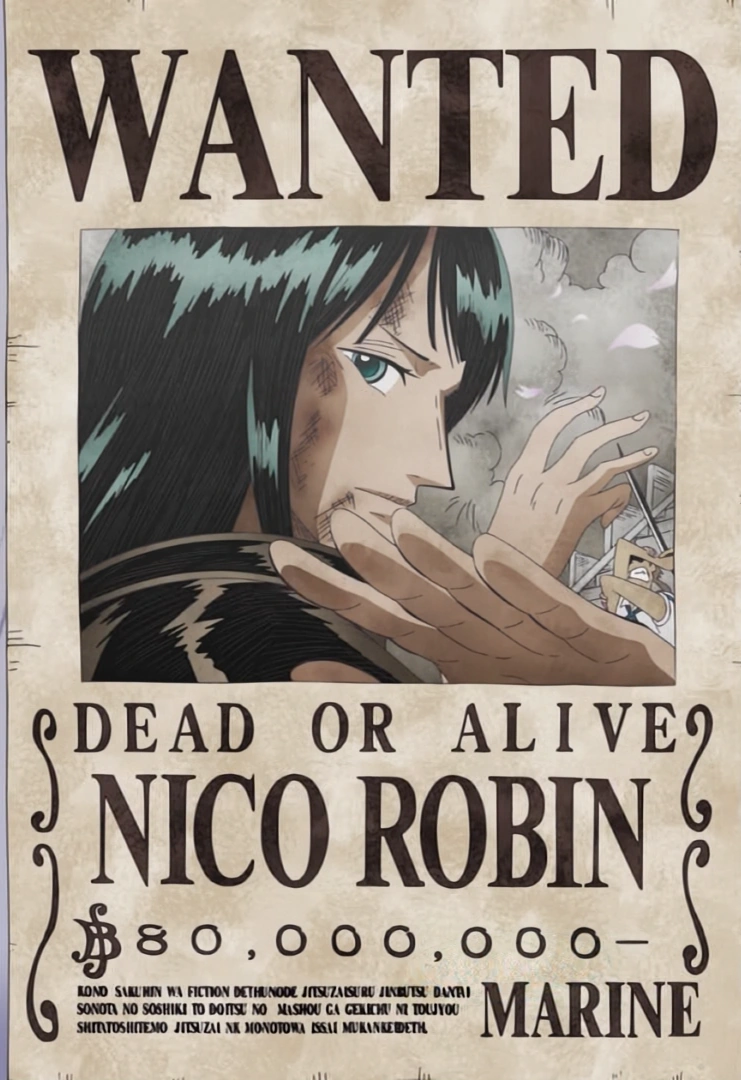
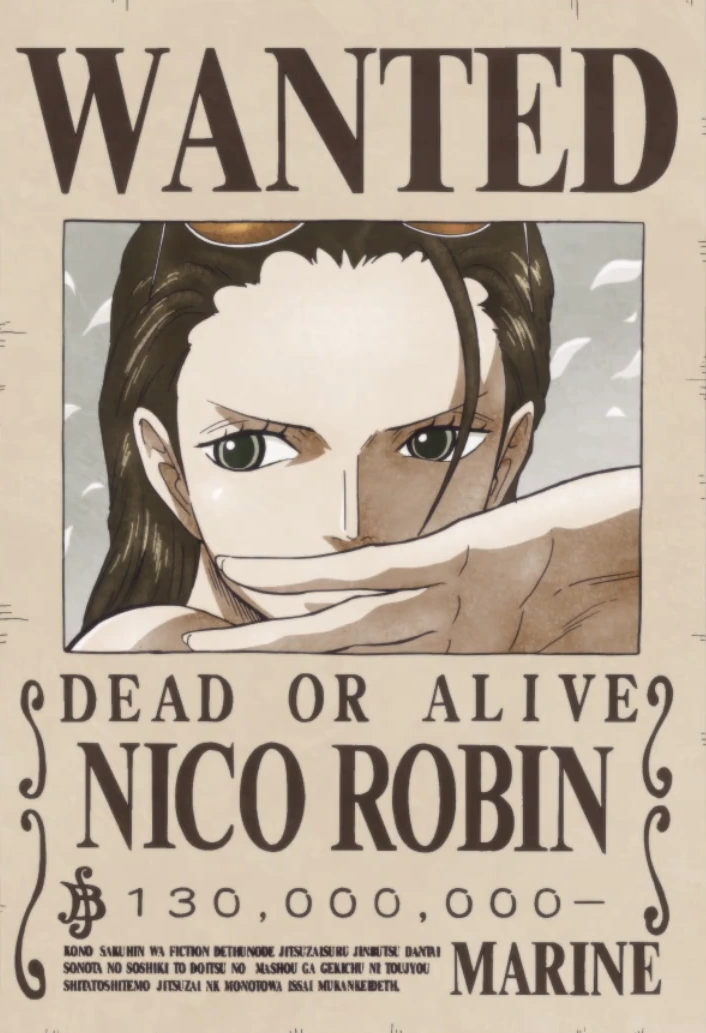
feat(posters): canonical Egghead-era wanted posters from One Piece Fandom
Replaced the 10 wanted posters with the canon Fandom CDN versions —
each with transparent background + their own painted parchment and
bounty figure. Notably Luffy's now the Gear-5 "Sun God Nika" poster
with the 3 billion berry bounty.

- Old capitalised .png set deleted (was lower-quality, white-backed
  partial crops the user uploaded as placeholders)
- All 10 lowercase .webp files replaced with the canon images
  downloaded via direct static.wikia.nocookie.net URLs the user
  provided
- ThemeArtStrip now points at the .webp set, with alt text noting
  each crew member's title ("God Usopp", Luffy's bounty)

diff --git a/src/features/about/ThemeArtStrip.tsx b/src/features/about/ThemeArtStrip.tsx
@@ -26,20 +26,21 @@ const THOR_LINEUP = [
   { src: "/assets/Marvel/magneto.png", alt: "Magneto" },
 ];
 
-// Capitalized .png filenames — the high-res replacements the user dropped
-// into /public/assets/One-Piece/wanted/ (the lowercase .webp files in the
-// same folder are the older lower-res versions, kept around but unused).
+// Canonical post-Wano wanted posters downloaded from One Piece Fandom
+// (Bounty Gallery). Each comes with its own painted parchment + bounty
+// number, on a transparent background so the wood-grain board behind
+// shows through naturally — no extra wrapper styling required.
 const LUFFY_LINEUP = [
-  { src: "/assets/One-Piece/wanted/luffy.png", alt: "Wanted: Monkey D. Luffy" },
-  { src: "/assets/One-Piece/wanted/Zoro.png", alt: "Wanted: Roronoa Zoro" },
-  { src: "/assets/One-Piece/wanted/Nami.png", alt: "Wanted: Nami" },
-  { src: "/assets/One-Piece/wanted/Usopp.png", alt: "Wanted: Usopp" },
-  { src: "/assets/One-Piece/wanted/Sanji.png", alt: "Wanted: Sanji" },
-  { src: "/assets/One-Piece/wanted/Chopper.png", alt: "Wanted: Tony Tony Chopper" },
-  { src: "/assets/One-Piece/wanted/Robin.png", alt: "Wanted: Nico Robin" },
-  { src: "/assets/One-Piece/wanted/Franky.png", alt: "Wanted: Franky" },
-  { src: "/assets/One-Piece/wanted/Brook.png", alt: "Wanted: Brook" },
-  { src: "/assets/One-Piece/wanted/Jinbe.png", alt: "Wanted: Jinbe" },
+  { src: "/assets/One-Piece/wanted/luffy.webp", alt: "Wanted: Monkey D. Luffy — ฿3,000,000,000" },
+  { src: "/assets/One-Piece/wanted/zoro.webp", alt: "Wanted: Roronoa Zoro" },
+  { src: "/assets/One-Piece/wanted/nami.webp", alt: "Wanted: Nami" },
+  { src: "/assets/One-Piece/wanted/usopp.webp", alt: "Wanted: God Usopp" },
+  { src: "/assets/One-Piece/wanted/sanji.webp", alt: "Wanted: Sanji" },
+  { src: "/assets/One-Piece/wanted/chopper.webp", alt: "Wanted: Tony Tony Chopper" },
+  { src: "/assets/One-Piece/wanted/robin.webp", alt: "Wanted: Nico Robin" },
+  { src: "/assets/One-Piece/wanted/franky.webp", alt: "Wanted: Franky" },
+  { src: "/assets/One-Piece/wanted/brook.webp", alt: "Wanted: Brook" },
+  { src: "/assets/One-Piece/wanted/jinbe.webp", alt: "Wanted: Jinbe" },
 ];
 
 export function ThemeArtStrip() {
